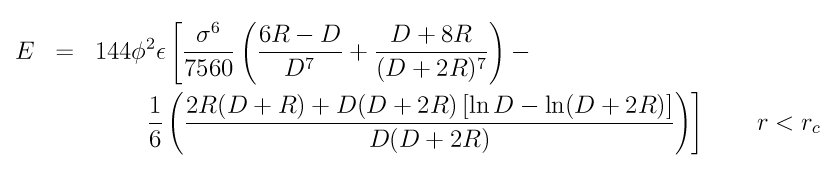
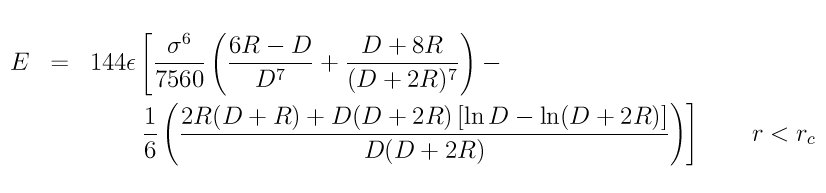
git-svn-id: svn://svn.icms.temple.edu/lammps-ro/trunk@9768 f3b2605a-c512-4ea7-a41b-209d697bcdaa

diff --git a/doc/fix_wall.html b/doc/fix_wall.html
@@ -29,18 +29,16 @@
 
 <LI>face = <I>xlo</I> or <I>xhi</I> or <I>ylo</I> or <I>yhi</I> or <I>zlo</I> or <I>zhi</I> 
 
-<LI>  args = coord epsilon sigma cutoff
+<PRE>  args = coord epsilon sigma cutoff
     coord = position of wall = EDGE or constant or variable
       EDGE = current lo or hi edge of simulation box
       constant = number like 0.0 or -30.0 (distance units)
       variable = <A HREF = "variable.html">equal-style variable</A> like v_x or v_wiggle
     epsilon = strength factor for wall-particle interaction (energy or energy/distance^2 units)
-      epsilon can be a variable (see below) 
-
-<LI>    sigma = size factor for wall-particle interaction (distance units)
-      sigma can be a variable (see below) 
-
-<PRE>    cutoff = distance from wall at which wall-particle interaction is cut off (distance units) 
+      epsilon can be a variable (see below)
+    sigma = size factor for wall-particle interaction (distance units)
+      sigma can be a variable (see below)
+    cutoff = distance from wall at which wall-particle interaction is cut off (distance units) 
 </PRE>
 <LI>zero or more keyword/value pairs may be appended 
 

diff --git a/doc/Eqs/fix_wall_colloid.tex b/doc/Eqs/fix_wall_colloid.tex
@@ -3,7 +3,7 @@
 \begin{document}
 
 \begin{eqnarray}
-E &=& 144 \phi^2 \epsilon \left[ \frac{\sigma^{6}}{7560} 
+E &=& 144 \epsilon \left[ \frac{\sigma^{6}}{7560} 
   \left(\frac{6R-D}{D^{7}} + \frac{D+8R}{(D+2R)^{7}} \right) - 
   \frac{}{} \right. \nonumber \\
   &&\qquad \left. \frac{1}{6} \left(\frac{2R(D+R) + D(D+2R)